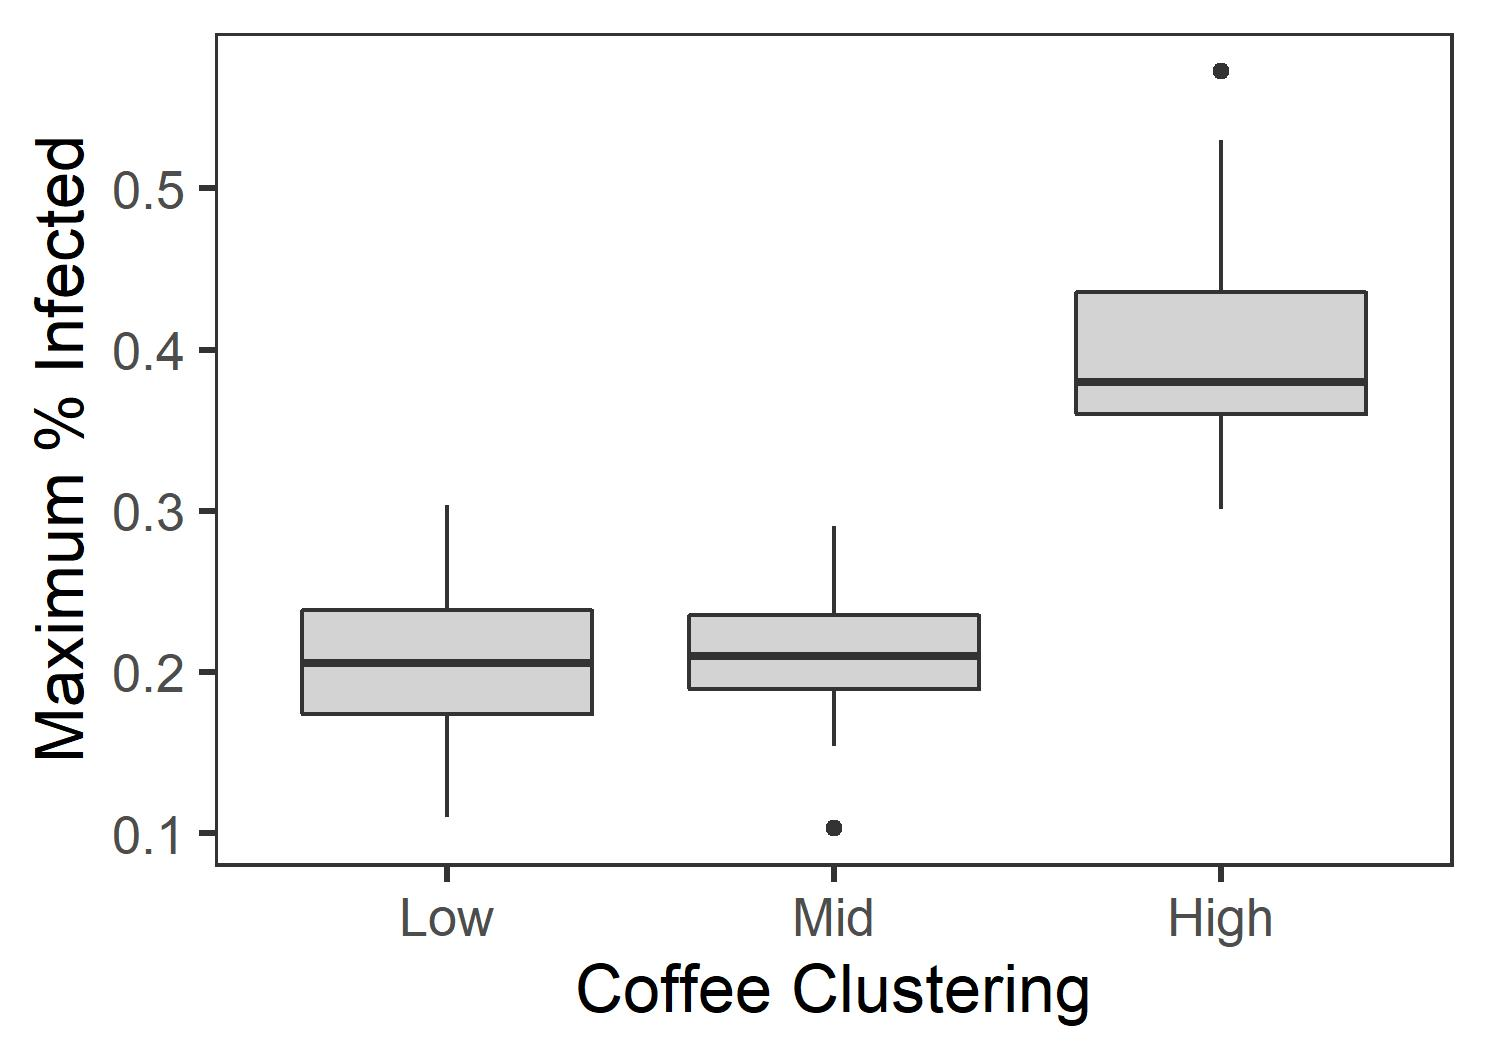
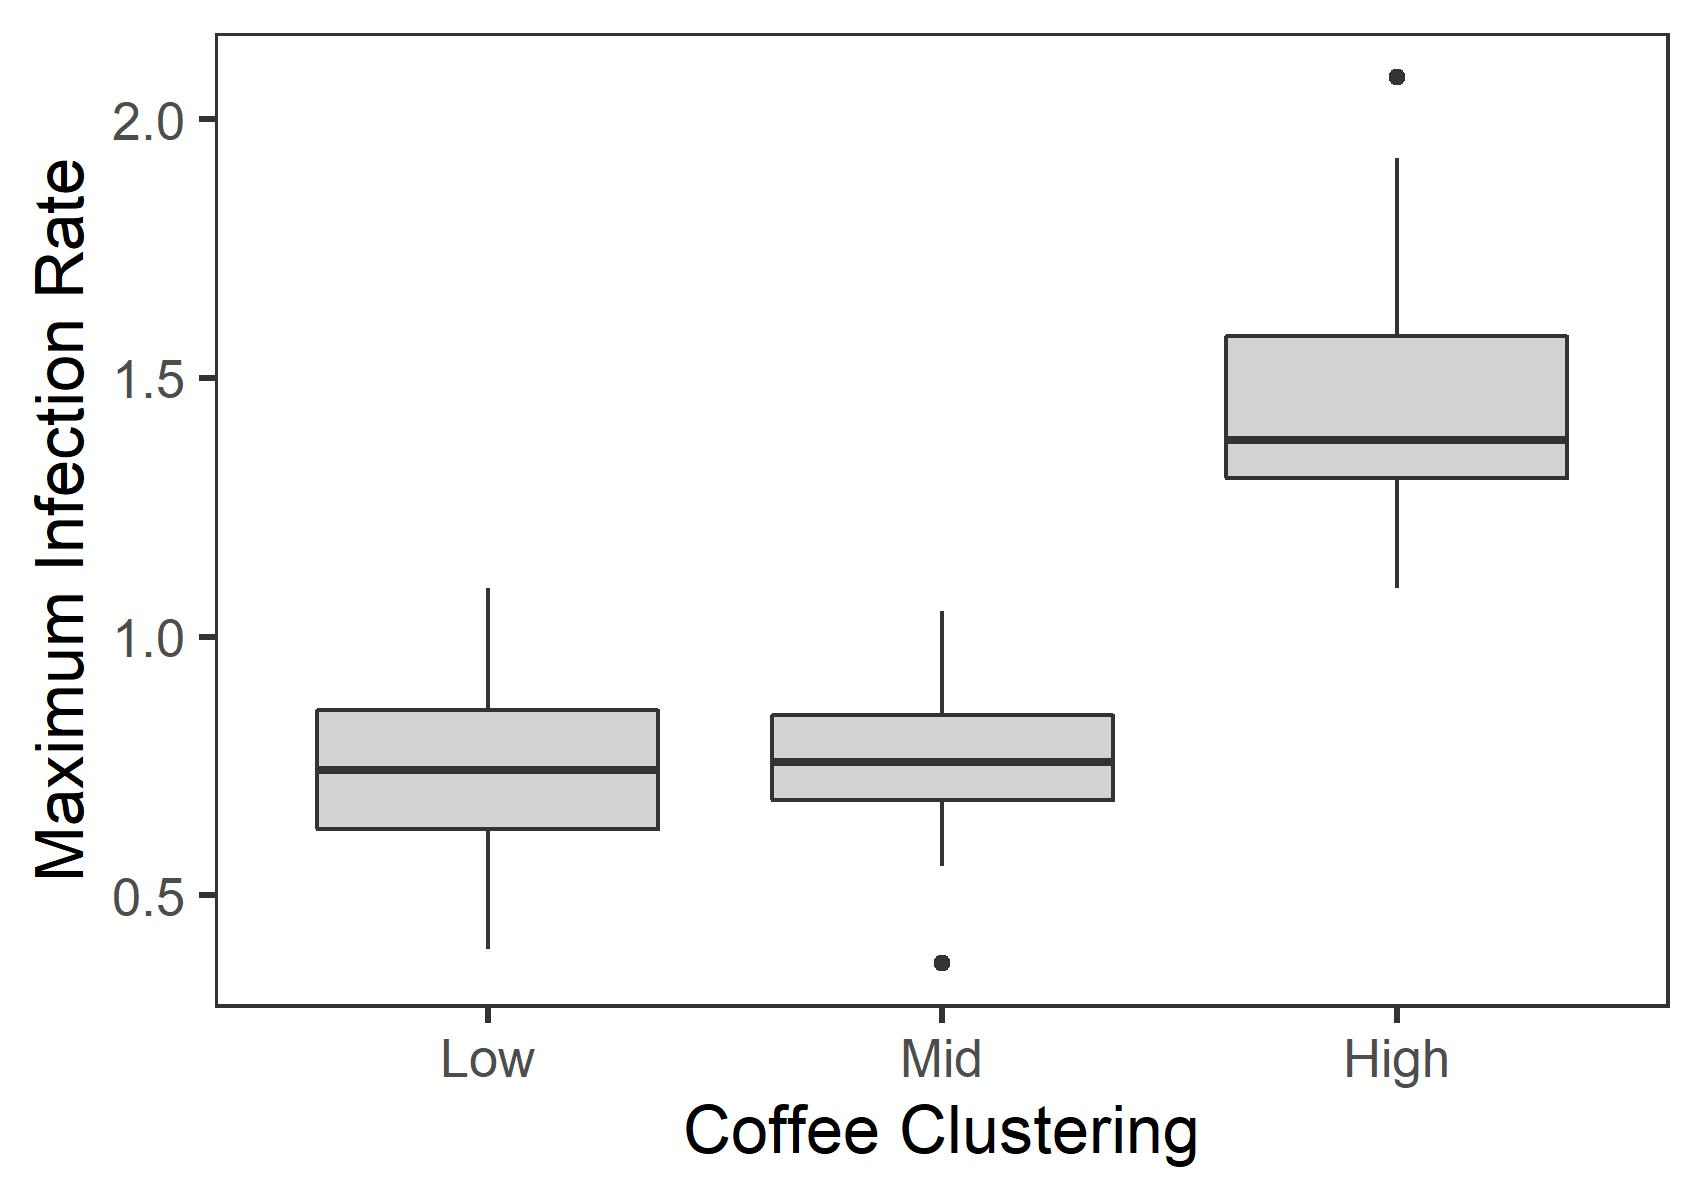
convert sim figs to rate

diff --git a/LandscapeSim.py b/LandscapeSim.py
@@ -2,6 +2,7 @@ import numpy
 import random
 #import matplotlib.pyplot as plt
 from nlmpy import nlmpy as nlm
+from statistics import mean
 
 ##############################################################################
 ################        Neighbors Function             #######################
@@ -67,6 +68,15 @@ def MakeLandscape(size, deforest, disp, cluster):
     start = numpy.where(coffee == 1)
 
     return(coffee, landscape, start)
+
+# Code for avg. number of coffee cells per landscape
+ncells = []
+for i in range(10):
+    (x, landscape, start) = MakeLandscape(120, 0.45, 3, 0.3)
+    sum = numpy.count_nonzero(~numpy.isnan(x))
+    ncells.append(sum)
+
+print(mean(ncells))
 
 ###################################################################
 ##############    Cellular Automata    ############################
